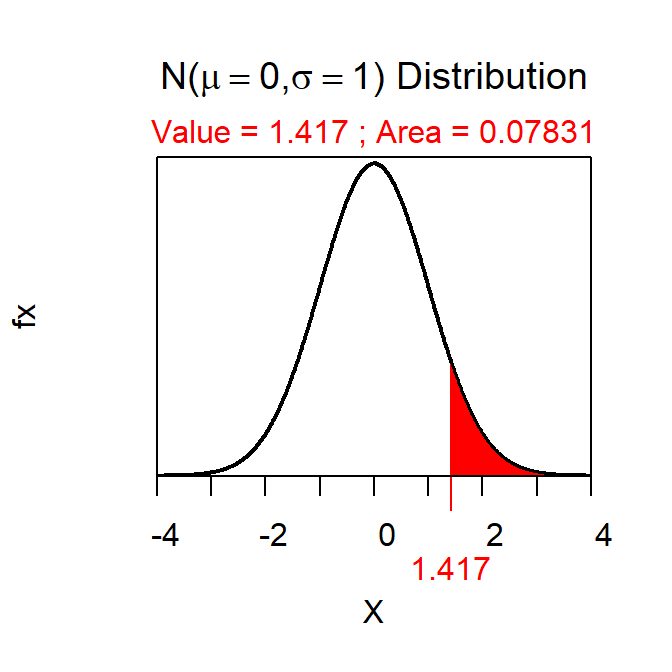
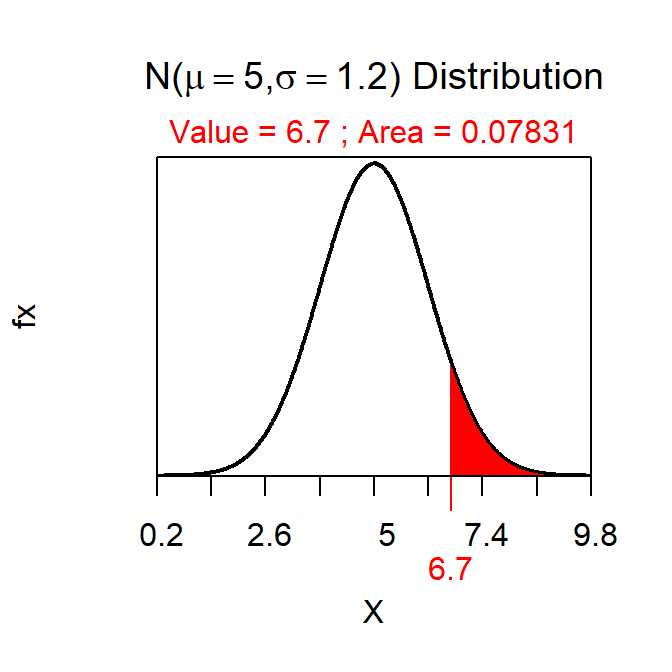
Updated 1Z CE Key

diff --git a/modules/CE/KEY_1SampleZ_CE.html b/modules/CE/KEY_1SampleZ_CE.html
@@ -18,10 +18,13 @@ Define the parameter μ in Step 2.
 Provide some evidence for the characteristics of the test in Step 3 (note the items in parentheses).
 </li>
 <li>
-Note that the decision is about H<sub>0</sub> in Step 9. However, in Step 10 you will likely be describing what you decided about H<sub>A</sub>. For example, in the first example below, Step 10 is saying that H<sub>A</sub> is not supported. However, the opposite is true in the second example. This happens because the researcher’s hypothesis (what they are tyring to see if there is evidence for) is almost always in H<sub>A</sub>. Therefore, answering the researcher’s question requires you to say whether H<sub>A</sub> was supported or not.
+The decision is about H<sub>0</sub> in Step 9. However, in Step 10 you will likely be describing what you decided about H<sub>A</sub>. For example, in the first example below, Step 10 is saying that H<sub>A</sub> is not supported. However, the opposite is true in the second example. This happens because the researcher’s hypothesis (what they are tyring to see if there is evidence for) is almost always in H<sub>A</sub>. Therefore, answering the researcher’s question requires you to say whether H<sub>A</sub> was supported or not.
 </li>
 <li>
-You values may differ slightly from mine as I calculate everything in R that holds many decimal places on intermediate values.
+In situations where the p-value is VERY small (as in the credit card example below), I will often show the p-value as “&lt;0.00005” (i.e., I round p-values to four decimals so if it is not 0.0001 then it must be less than 0.00005) rather than showing the scientific notation or the many decimal places.
+</li>
+<li>
+You values may differ slightly from mine as I calculated everything in R that holds many decimal places on intermediate values. Note that you do not need to use R as a calculator as I did for the hand calculations, but you do need it for <code>distrib()</code>.
 </li>
 </ul>
 </div>
@@ -47,7 +50,7 @@ The assumptions are met because (i) σ is known (=7.1) and (ii) n=35≥30.
 x̄=6.7 pounds gained.
 </li>
 <li>
-Z=1.4165.
+Z=<span class="math inline">\(\frac{6.7-5}{\frac{7.1}{\sqrt{35}}}\)</span>=1.417.
 </li>
 <li>
 p-value=0.0783.
@@ -59,15 +62,17 @@ Do not reject H<sub>0</sub> because the p-value&gt;α.
 There is not enough evidence to conclude that the mean weight gain for ALL women on this diet is greater than 5 pounds.
 </li>
 <li>
-Not required
+I am 95% confident that the mean weight gain for ALL women is greater than 4.73, which further indicates that the mean weight gain is not greater than 5 pounds.
 </li>
 </ol>
 <p>R Appendix.</p>
 <pre class="r"><code>xbar &lt;- 6.7; sigma &lt;- 7.1; n &lt;- 35
 se &lt;- sigma/sqrt(n)
-t &lt;- (xbar-5)/se
-pv &lt;- distrib(t,lower.tail=FALSE)
-lcb &lt;- xbar+distrib(0.95,lower.tail=FALSE,type=&quot;q&quot;)*se</code></pre>
+( Z &lt;- (xbar-5)/se )
+( pv &lt;- distrib(xbar,mean=5,sd=sigma/sqrt(n),lower.tail=FALSE) )
+( pv &lt;- distrib(Z,lower.tail=FALSE) )  # same as above (but uses test stat)
+( Zstar &lt;- distrib(0.95,lower.tail=FALSE,type=&quot;q&quot;) )
+( lcb &lt;- xbar+Zstar*se )</code></pre>
 <hr />
 </div>
 <div id="cactus-growth" class="section level2">
@@ -92,7 +97,7 @@ The data are part of an experiment in which cacti were randomly selected.
 x¯ = 3.26.
 </li>
 <li>
-Z = <span class="math inline">\(\frac{3.26-4}{\frac{1.40}{\sqrt{10}}}\)</span> = <span class="math inline">\(\frac{-0.74}{0.44}\)</span> = -1.67.
+Z = <span class="math inline">\(\frac{3.26-4}{\frac{1.40}{\sqrt{10}}}\)</span> = <span class="math inline">\(\frac{-0.74}{0.44}\)</span> = -1.671.
 </li>
 <li>
 The p-value is 0.0473.
@@ -104,13 +109,18 @@ H<sub>0</sub> is rejected because the p-value&lt;α.
 The mean growth rate of all cacti under the experimental conditions does appear to be less than 4 cm.
 </li>
 <li>
-One is 95% confident that the mean growth of all cacti under the experimental conditions is less than 3.98 cm.
+One is 95% confident that the mean growth of all cacti under the experimental conditions is less than 3.988 cm, which further indicates that mean growth is less than 4 cm.
 </li>
 </ol>
 <div id="r-appendix" class="section level3">
 <h3>R Appendix</h3>
-<pre class="r"><code>&gt; ( pval &lt;- distrib(3.26,mean=4,sd=1.40/sqrt(10)) )
-&gt; ( zstar &lt;- distrib(0.95,type=&quot;q&quot;) )</code></pre>
+<pre class="r"><code>&gt; xbar &lt;- 3.26; sigma &lt;- 1.40; n &lt;- 10
+&gt; se &lt;- sigma/sqrt(n)
+&gt; ( Z &lt;- (xbar-4)/se )
+&gt; ( pv &lt;- distrib(xbar,mean=4,sd=sigma/sqrt(n)) )
+&gt; ( pv &lt;- distrib(Z) )  # same as above (but uses test stat)
+&gt; ( Zstar &lt;- distrib(0.95,type=&quot;q&quot;) )
+&gt; ( ucb &lt;- xbar+Zstar*se )</code></pre>
 <hr />
 </div>
 </div>
@@ -121,7 +131,7 @@ One is 95% confident that the mean growth of all cacti under the experimental co
 α=0.10
 </li>
 <li>
-H<sub>O</sub>: μ=8, H<sub>A</sub>: μ&gt;8, where μ is the mean Elk density in Banff.
+H<sub>0</sub>: μ=8, H<sub>A</sub>: μ&gt;8, where μ is the mean Elk density in Banff.
 </li>
 <li>
 A 1-sample Z-test is required because a quantitative variable (Elk density) was measured on individuals from one group or population (plots in Banff National Park) and σ is known (given in background).
@@ -150,18 +160,17 @@ The test statistic is Z=2.619 (Table 1).
 The p-value is 0.0044 (Table 1).
 </li>
 <li>
-The H<sub>O</sub> is rejected because the p-value&lt;α.
+The H<sub>0</sub> is rejected because the p-value&lt;α.
 </li>
 <li>
 The annual density of elk appears to be greater than 8 per km<sup>2</sup>.
 </li>
 <li>
-A 90% lower confidence bound is required. Thus, one is 90% confident that the mean annual density of elk is more than 8.69 per km<sup>2</sup> (Table 1).
+One is 90% confident that the mean annual density of elk is more than 8.69 per km<sup>2</sup> (Table 1), which further indicates that the mean density of Elk is greater than 8 per km<sup>2</sup>.
 </li>
 </ol>
 <p>R Appendix</p>
-<pre class="r"><code>library(NCStats)
-setwd(&#39;C:/aaaWork/Books/IntroStats/HW/&#39;)
+<pre class="r"><code>setwd(&#39;C:/aaaWork/Books/IntroStats/HW/&#39;)
 elk &lt;- read.csv(&quot;Elk.csv&quot;)
 ( elk.z &lt;- z.test(elk,mu=8,sd=2,alt=&quot;greater&quot;,conf.level=0.90) )</code></pre>
 <hr />
@@ -173,7 +182,7 @@ elk &lt;- read.csv(&quot;Elk.csv&quot;)
 α=0.10.
 </li>
 <li>
-H<sub>A</sub>: μ&gt;630 and H<sub>O</sub>: μ=630, where μ is the mean credit card limit for all companies.
+H<sub>A</sub>: μ&gt;630 and H<sub>0</sub>: μ=630, where μ is the mean credit card limit for all companies.
 </li>
 <li>
 A one-sample Z-test is required because a quantitative variable (credit score) was measured on individuals from one group or population (all credit card companies) and σ is known (given in background).
@@ -188,26 +197,29 @@ The assumptions are met because n=44≥30 and σ is known.
 The statistic is x̄=636.86.
 </li>
 <li>
-The test statistic is Z=<span class="math inline">\(\frac{636.86-630}{\frac{5}{\sqrt{44}}}\)</span>=9.11.
+The test statistic is Z=<span class="math inline">\(\frac{636.86-630}{\frac{5}{\sqrt{44}}}\)</span>=9.101.
 </li>
 <li>
 The p-value is &lt;0.00005.
 </li>
 <li>
-The H<sub>O</sub> is rejected because the p-value&lt;α.
+The H<sub>0</sub> is rejected because the p-value&lt;α.
 </li>
 <li>
 It appears that the credit threshold is greater than 630. Thus, it appears that the credit card companies have increased the threshold for issuing a credit card.
 </li>
 <li>
-A 90% lower confidence bound with Z<sup>*</sup>=-1.282. Thus, 636.86-1.282<span class="math inline">\(\frac{5}{\sqrt{44}}\)</span> or 636.86-0.97 = 635.89. Therefore, one is 90% confident that the mean cutoff score for ALL companies is greater than 635.89.
+One is 90% confident that the mean cutoff score for ALL companies is greater than 635.89, which is further evidence that the threshold has been raised from 630.
 </li>
 </ol>
 <p>R Appendix</p>
-<pre class="r"><code>library(NCStats)
-setwd(&#39;C:/aaaWork/Books/IntroStats/HW/&#39;)
-( distrib(636.86,mean=630,sd=5/sqrt(44),lower.tail=FALSE) )
-( distrib(0.90,type=&quot;q&quot;,lower.tail=FALSE,lower.tail=FALSE) )</code></pre>
+<pre class="r"><code>xbar &lt;- 636.86; sigma &lt;- 5; n &lt;- 44
+se &lt;- sigma/sqrt(n)
+( Z &lt;- (xbar-630)/se )
+( pv &lt;- distrib(xbar,mean=530,sd=sigma/sqrt(n),lower.tail=FALSE) )
+( pv &lt;- distrib(Z,lower.tail=FALSE) )  # same as above (but uses test stat)
+( Zstar &lt;- distrib(0.90,lower.tail=FALSE,type=&quot;q&quot;) )
+( lcb &lt;- xbar+Zstar*se )</code></pre>
 <hr />
 </div>
 <div id="raptors-at-hawks-ridge" class="section level2">
@@ -217,7 +229,7 @@ setwd(&#39;C:/aaaWork/Books/IntroStats/HW/&#39;)
 α=0.01
 </li>
 <li>
-H<sub>O</sub>: μ=50000, H<sub>A</sub>: μ&gt;50000, where μ is the mean number of raptors seen in ALL years at Hawk’s Ridge.
+H<sub>0</sub>: μ=50000, H<sub>A</sub>: μ&gt;50000, where μ is the mean number of raptors seen in ALL years at Hawk’s Ridge.
 </li>
 <li>
 A one-sample Z-test is required because (i) a quantitative variable (number of raptors) was measured, (ii)the individuals are from one group or population (all years at Hawk’s Ridge), and (iii) σ is known (=37000). Thus, the population mean is being compared to a specific value in the null hypothesis.
@@ -246,13 +258,13 @@ The test statistic is Z=2.780 (Table 2).
 The p-value is 0.0027 (Table 2).
 </li>
 <li>
-The H<sub>O</sub> is rejected because the p-value&lt;α (Table 2).
+The H<sub>0</sub> is rejected because the p-value&lt;α (Table 2).
 </li>
 <li>
 The mean number of raptors seen per year in ALL years appears to be greater than 50000.
 </li>
 <li>
-I am 99% confident that the mean number of raptors seen per year in ALL years is more than 52967 (Table 2).
+I am 99% confident that the mean number of raptors seen per year in ALL years is more than 52967 (Table 2), which is further evidence that the mean number of raptors is greater than 50000.
 </li>
 </ol>
 <p>R Appendix</p>
